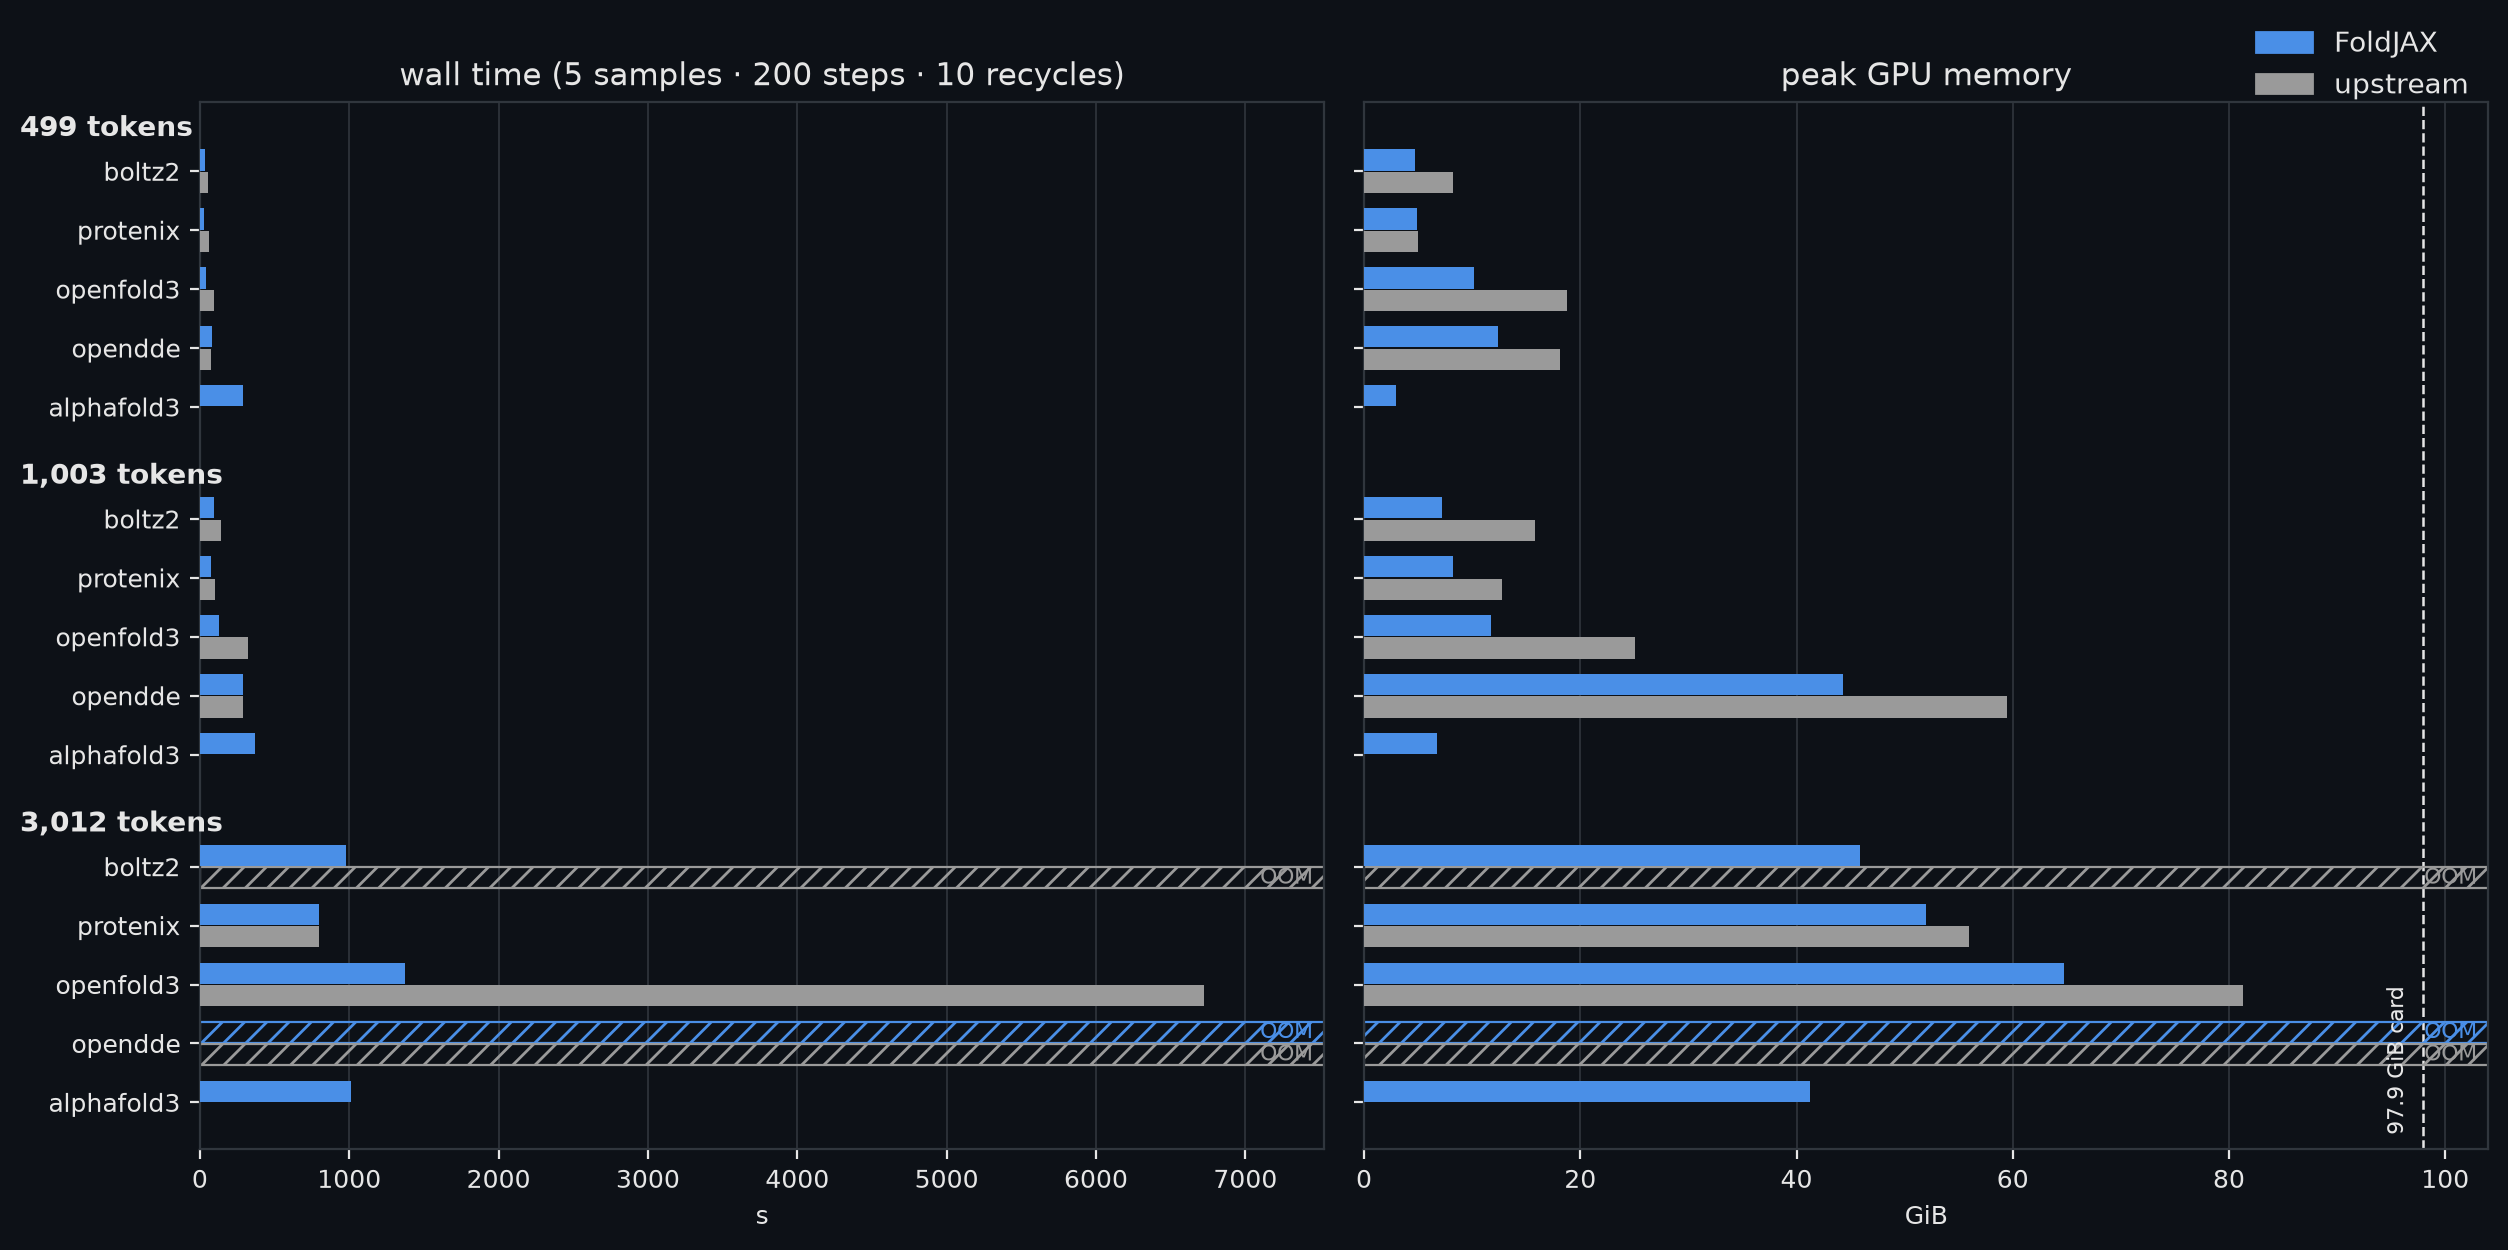
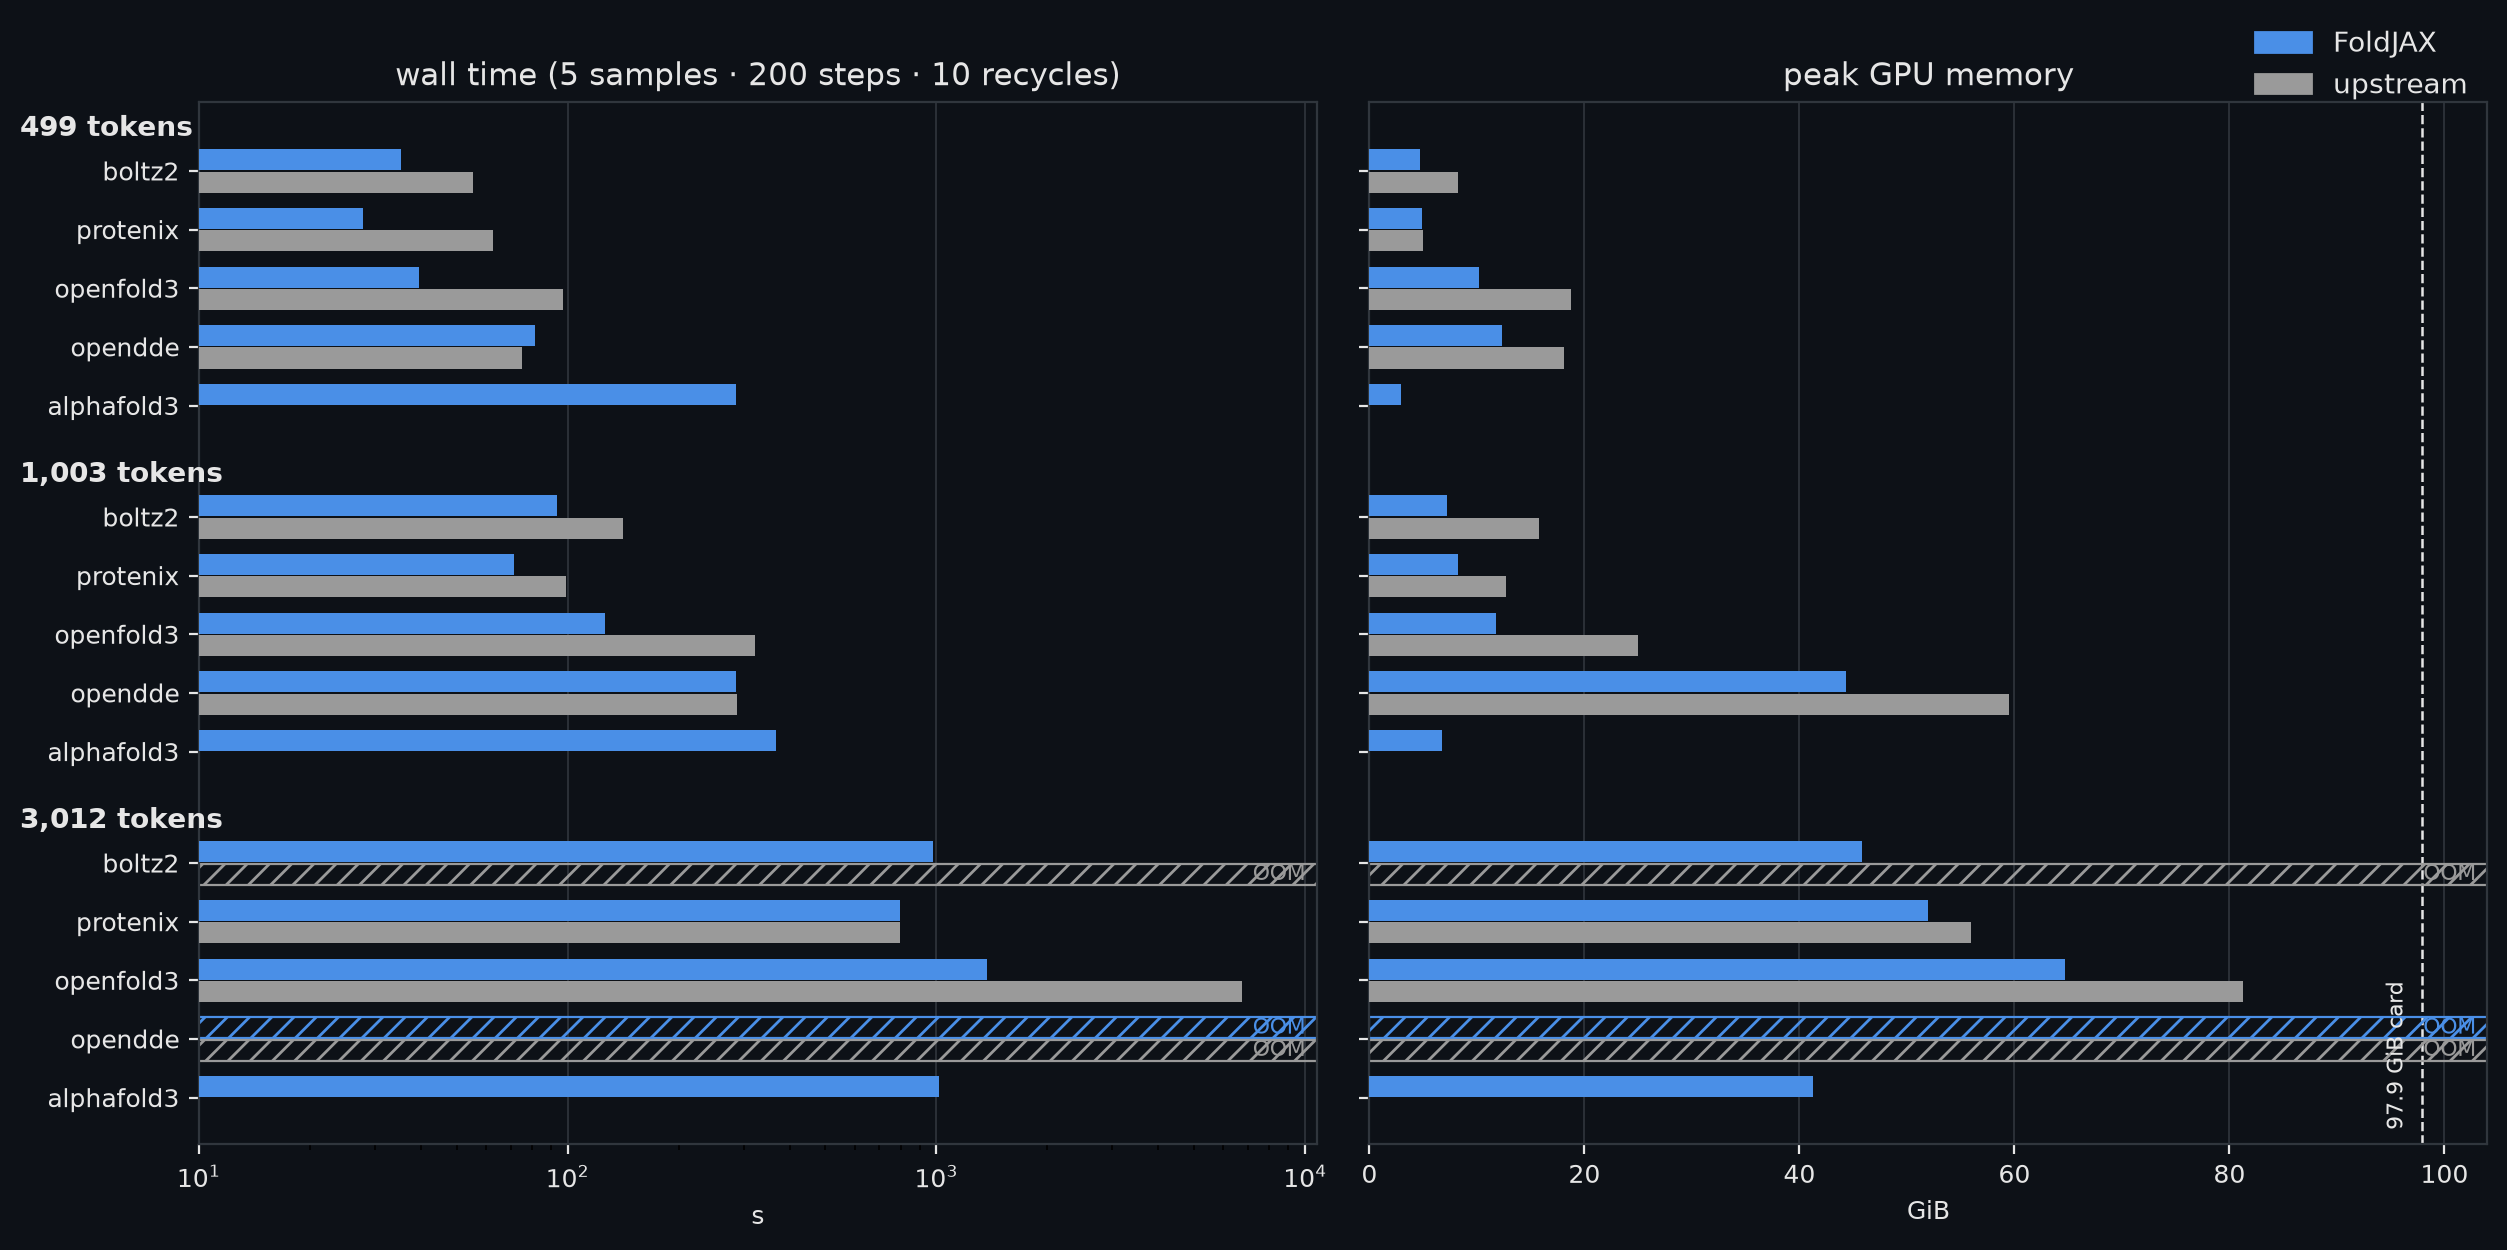
docs: log-scale the wall-time panel

diff --git a/docs/make_benchmark_figure.py b/docs/make_benchmark_figure.py
@@ -122,7 +122,10 @@ def render(records: dict, out: Path, *, dark: bool) -> Path:
             )
             axis.set_xlim(0, 104)
         else:
-            axis.set_xlim(0, limit * 1.12)
+            # 28 s to 6,722 s in one panel: only a log axis keeps the small
+            # cells readable next to the kernel-less upstream hours.
+            axis.set_xscale("log")
+            axis.set_xlim(10, limit * 1.6)
         axis.set_title(title, color=fg, fontsize=11)
         axis.set_xlabel(unit, color=fg, fontsize=9)
         axis.tick_params(colors=fg, labelsize=9)
